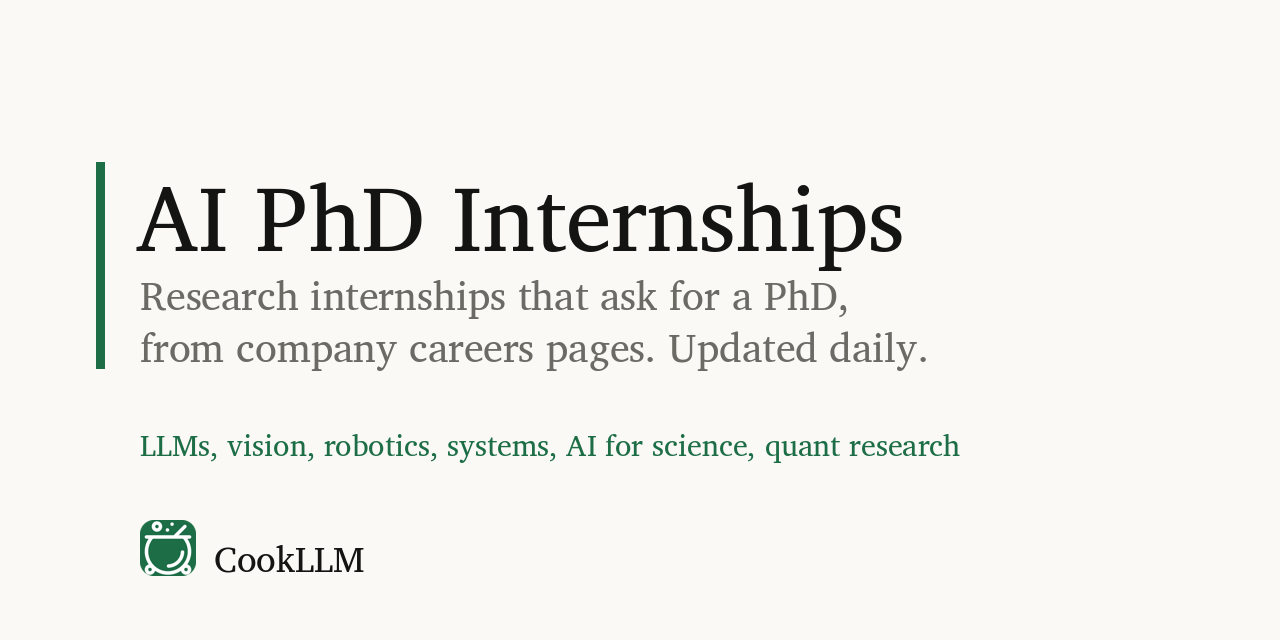
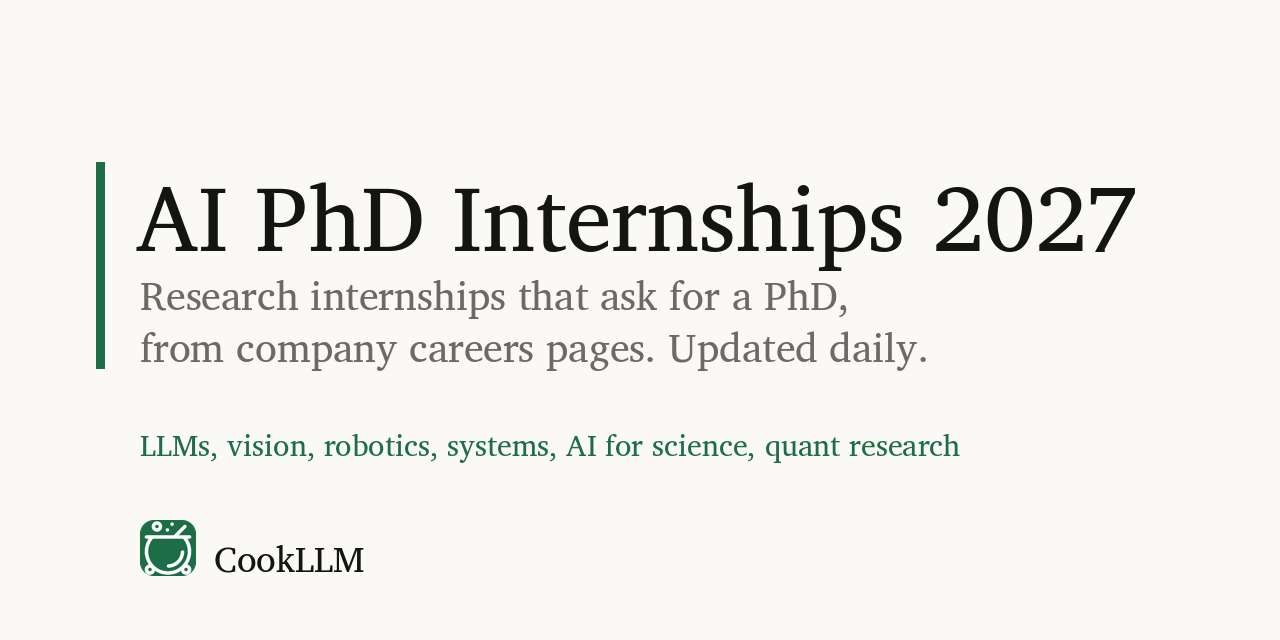
Rename to AI-PhD-Internships-2027; 2027 in the title and preview

Changed region(s): [[0.7188, 0.2812, 0.9062, 0.4062]]

diff --git a/scripts/update.py b/scripts/update.py
@@ -27,7 +27,7 @@ from locations import places  # noqa: E402
 ROOT = Path(__file__).resolve().parent.parent
 SITE = "https://cookllm.com"
 SNAPSHOT = f"{SITE}/api/jobs/explorer?part="
-USER_AGENT = "phd-internships-bot (+https://github.com/cookllm/AI-PhD-Internships)"
+USER_AGENT = "phd-internships-bot (+https://github.com/cookllm/AI-PhD-Internships-2027)"
 UTM = "utm_source=github&utm_medium=readme&utm_campaign=phd-internships"
 
 # The snapshot's tag lists (src/jobs/snapshot-types.ts on the site)

diff --git a/assets/make-preview.py b/assets/make-preview.py
@@ -8,7 +8,7 @@ Needs Pillow, the Charis SIL font and the CookLLM logo:
 import sys
 from PIL import Image, ImageDraw, ImageFont
 FONT, LOGO = sys.argv[1], sys.argv[2]
-title = sys.argv[3] if len(sys.argv) > 3 else 'AI PhD Internships'
+title = sys.argv[3] if len(sys.argv) > 3 else 'AI PhD Internships 2027'
 W, H = 1280, 640
 bg, fg, muted, green = '#faf9f5', '#141413', '#6b6a64', '#1d6e47'
 im = Image.new('RGB', (W, H), bg)

diff --git a/README.md b/README.md
@@ -1,6 +1,6 @@
 <!-- Generated by scripts/update.py from templates/README.md. Edit the template, not this file. -->
 
-# AI PhD Internships
+# AI PhD Internships 2027
 
 AI and machine learning research internships (research scientist, applied scientist, research engineer) that require or prefer a PhD, at AI labs and tech companies. Summer 2027 and off-cycle terms. Updated daily from company career pages, with direct apply links.
 

diff --git a/templates/README.md b/templates/README.md
@@ -1,6 +1,6 @@
 <!-- Generated by scripts/update.py from templates/README.md. Edit the template, not this file. -->
 
-# AI PhD Internships
+# AI PhD Internships 2027
 
 AI and machine learning research internships (research scientist, applied scientist, research engineer) that require or prefer a PhD, at AI labs and tech companies. Summer 2027 and off-cycle terms. Updated daily from company career pages, with direct apply links.
 
